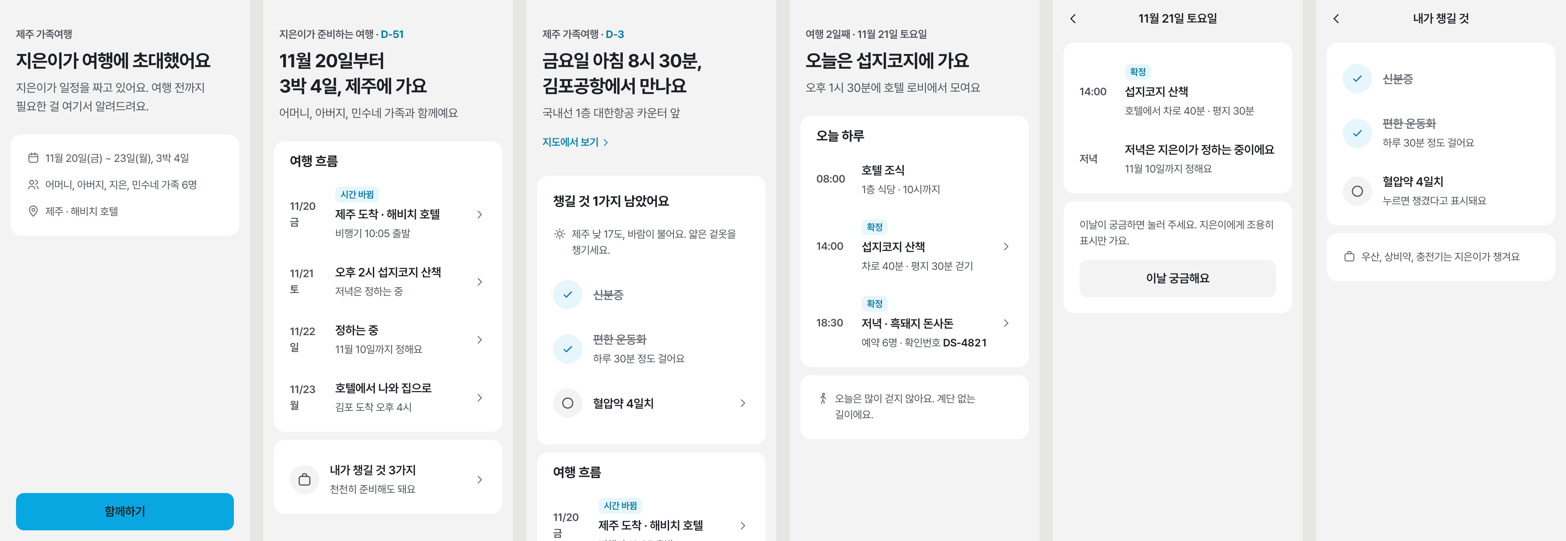
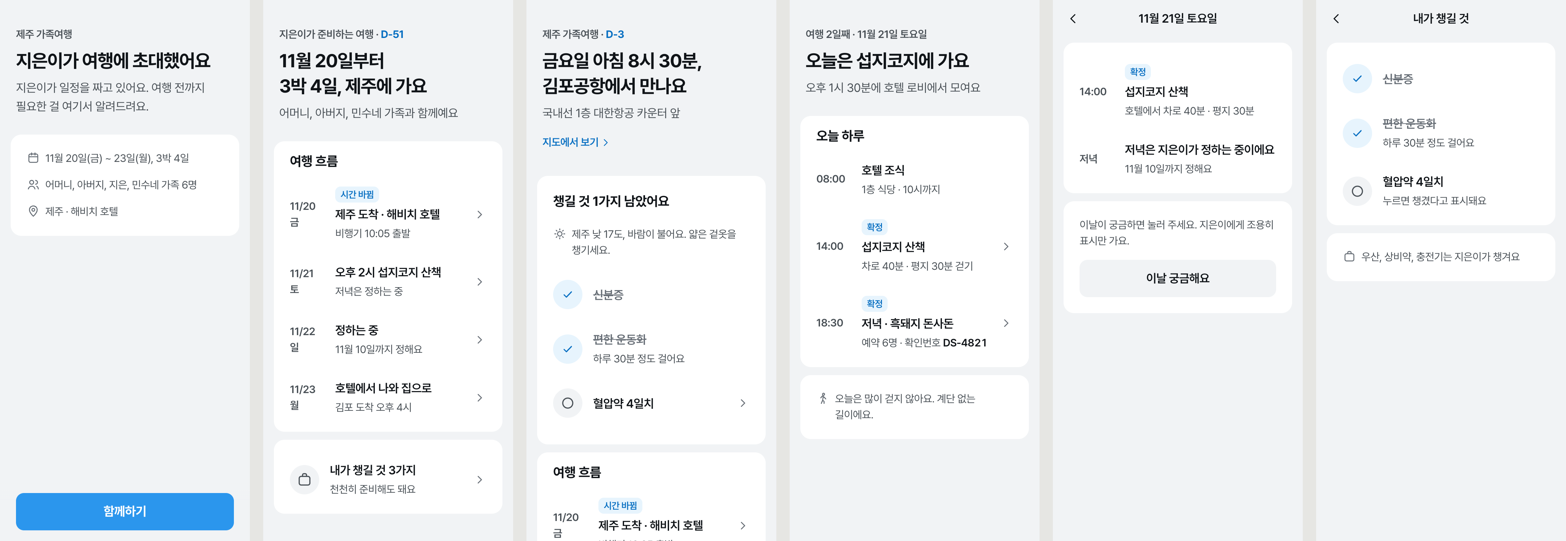
마이리얼트립 컬러 팔레트 도입 + derive.py 팔레트 모드
- myrealtrip.com :root CSS 변수 70개 + 화면 요소 실사용 색을 대조해 palettes/myrealtrip.json으로 저장
  (--primary #51abf3는 미사용, 실제 버튼은 blue-500 #2B96ED / 본문 먹색 #101418 추가)
- derive.py --palette: 새 값을 만들지 않고 팔레트 단계 중 대비 기준을 넘는 가장 밝은 단계를 역할에 배정
- 채워진 버튼은 흰 글자 우선: 4.5 미만이면 19px/700 큰 글씨 기준(3:1), 그래도 미달이면 팔레트 안에서 한 단계 짙게
  (짙은 글자 버튼은 기준은 넘지만 버튼답지 않아 폐기)
- 대비 보고를 실제 값으로(큰 글씨 항목은 3:1 기준 표기), 예제 적용 채점 31/31

Changed region(s): [[0.0, 0.8872, 0.1533, 1.0]]

diff --git a/.claude/skills/oss-design-harness/foundation/examples/tokens.css b/.claude/skills/oss-design-harness/foundation/examples/tokens.css
@@ -1,22 +1,22 @@
-/* foundation tokens — derive.py --brand #08A7E1 --tone neutral --shape normal --density comfy --font pretendard
+/* foundation tokens — derive.py palette myrealtrip --shape normal --density comfy --font pretendard
    이 파일은 생성물이다. 직접 고치지 말고 파라미터를 바꿔 다시 만든다. */
 @import url('https://cdn.jsdelivr.net/gh/orioncactus/pretendard@v1.3.9/dist/web/static/pretendard.min.css');
 
 :root {
-  /* 색 — 포인트 1 + 표면 톤(neutral) */
-  --c-bg: #F3F3F4;
+  /* 색 — palette myrealtrip */
+  --c-bg: #F1F3F5;
   --c-surface: #FFFFFF;
-  --c-line: #E8E9EA;
-  --c-text-1: #1E2025;
-  --c-text-2: #4E525A;
-  --c-text-3: #6A6E76;
-  --c-brand: #08A7E1;
-  --c-on-brand: #1E2025;
-  --c-brand-text: #067FAB;
-  --c-brand-tint: #E6F6FC;
-  --c-brand-tint-text: #0677A1;
-  --c-danger: #E12D33;
-  --c-danger-tint: #FDF0F1;
+  --c-line: #E9ECEF;
+  --c-text-1: #101418;
+  --c-text-2: #495056;
+  --c-text-3: #666D75;
+  --c-brand: #2B96ED;
+  --c-on-brand: #FFFFFF;
+  --c-brand-text: #0A70C2;
+  --c-brand-tint: #E7F4FD;
+  --c-brand-tint-text: #0A70C2;
+  --c-danger: #C83323;
+  --c-danger-tint: #FBF1EF;
 
   /* 타이포 — pretendard */
   --font: 'Pretendard', -apple-system, BlinkMacSystemFont, sans-serif;
@@ -56,3 +56,6 @@
   --fs-sub: 16px; --fw-sub: 400; --lh-sub: 1.5;
   --fs-caption: 14px; --fw-caption: 500; --lh-caption: 1.4;
 }
+
+/* 버튼: 흰 글자 대비가 4.5 미만 → 큰 굵은 글자(19px/700)로 WCAG 큰 글씨 기준(3:1) 충족 */
+.btn.primary { font-size: 19px; font-weight: 700; }

diff --git a/.claude/skills/oss-design-harness/foundation/derive.py b/.claude/skills/oss-design-harness/foundation/derive.py
@@ -42,7 +42,38 @@ FONTS = {
     }
 }
 
-def derive(brand_hex, tone, shape, density, font):
+def from_palette(path):
+    """실제 서비스 팔레트(palettes/*.json)에서 역할 색을 고른다. 새 값을 만들지 않고 팔레트 단계 중
+    대비 기준을 통과하는 가장 밝은 단계를 쓴다. 반환: (색 dict, 버튼 큰 글자 필요 여부, 노트)"""
+    import json
+    P = json.loads(pathlib.Path(path).read_text(encoding="utf-8"))
+    S = {k: {st: hex2rgb(h) for st, h in sc.items()} for k, sc in P["scales"].items()}
+    order = lambda sc: sorted(sc, key=lambda st: int(st))            # 밝음 → 짙음
+    def first_pass(scale, bg, target):
+        for st in order(S[scale]):
+            if contrast(S[scale][st], bg) >= target: return S[scale][st]
+        return S[scale][order(S[scale])[-1]]
+    white = hex2rgb(P["white"]); bg = S["gray"][P["bg_step"]]; line = S["gray"][P["line_step"]]
+    brand = S[P["brand"]][P["brand_step"]]
+    tint = S[P["brand"]]["80"] if "80" in S[P["brand"]] else mix(white, brand, .1)
+    c = {"bg": bg, "surface": white, "line": line, "text1": hex2rgb(P["ink"]),
+         "text2": first_pass("gray", bg, 7), "text3": first_pass("gray", bg, 4.5),
+         "brand": brand, "brand_text": first_pass(P["brand"], white, 4.5),
+         "brand_tint": tint, "brand_tint_text": first_pass(P["brand"], tint, 4.5),
+         "danger": first_pass(P["danger"], white, 4.5), "danger_tint": S[P["danger"]]["50"]}
+    notes = list(P.get("notes", []))
+    big = False
+    if contrast(white, brand) >= 4.5: c["on_brand"] = white
+    elif contrast(white, brand) >= 3:                                   # 채워진 버튼은 흰 글자가 자연스럽다 → 큰 굵은 글자로 AA-large
+        c["on_brand"] = white; big = True; notes.append(f"버튼: 흰 글자 대비 {contrast(white, brand):.2f} → 버튼 글자 19px/700(큰 글씨 기준 3:1)")
+    else:
+        c["on_brand"] = white; c["brand"] = first_pass(P["brand"], white, 3); big = True; notes.append("버튼 색을 팔레트 안에서 한 단계 짙게")
+    return c, big, notes, P
+
+def derive(brand_hex, tone, shape, density, font, palette=None):
+    if palette:
+        c, big, notes, P = from_palette(palette)
+        return render_css(c, big, notes, f"palette {P['name']}", shape, density, font)
     th, ts = TONES[tone]
     surface = hls(th, 0.995 if tone != "neutral" else 1.0, ts)
     bg = hls(th, 0.955, ts + 0.04)
@@ -62,20 +93,29 @@ def derive(brand_hex, tone, shape, density, font):
     brand_tint_text = darken_until(brand, brand_tint, 4.5)
     danger = darken_until(hex2rgb("#E5484D"), surface, 4.5)
     danger_tint = mix(surface, hex2rgb("#E5484D"), 0.08)
+    c = {"bg": bg, "surface": surface, "line": line, "text1": text1, "text2": text2, "text3": text3,
+         "brand": brand, "on_brand": on_brand, "brand_text": brand_text, "brand_tint": brand_tint,
+         "brand_tint_text": brand_tint_text, "danger": danger, "danger_tint": danger_tint}
+    return render_css(c, False, notes, f"--brand {brand_hex} --tone {tone}", shape, density, font)
+
+def render_css(c, big, notes, label, shape, density, font):
+    bg, surface, line, text1, text2, text3 = c["bg"], c["surface"], c["line"], c["text1"], c["text2"], c["text3"]
+    brand, on_brand, brand_text, brand_tint, brand_tint_text = c["brand"], c["on_brand"], c["brand_text"], c["brand_tint"], c["brand_tint_text"]
+    danger, danger_tint = c["danger"], c["danger_tint"]
     r = SHAPES[shape]; d = DENSITY[density]; f = FONTS[font]
     checks = {
         "text-1/bg": contrast(text1, bg), "text-2/bg": contrast(text2, bg), "text-3/bg": contrast(text3, bg),
-        "text-3/surface": contrast(text3, surface), "on-brand/brand": contrast(on_brand, brand),
+        "text-3/surface": contrast(text3, surface), ("on-brand/brand(큰 글씨 ≥3)" if big else "on-brand/brand"): contrast(on_brand, brand),
         "brand-text/surface": contrast(brand_text, surface), "tint-text/tint": contrast(brand_tint_text, brand_tint),
         "danger/surface": contrast(danger, surface)}
     def typo(scale):
         return "\n".join(f"  --fs-{k}: {v[0]}px; --fw-{k}: {v[1]}; --lh-{k}: {v[2]};" for k, v in scale.items())
-    css = f"""/* foundation tokens — derive.py --brand {brand_hex} --tone {tone} --shape {shape} --density {density} --font {font}
+    css = f"""/* foundation tokens — derive.py {label} --shape {shape} --density {density} --font {font}
    이 파일은 생성물이다. 직접 고치지 말고 파라미터를 바꿔 다시 만든다. */
 @import url('{f["import"]}');
 
 :root {{
-  /* 색 — 포인트 1 + 표면 톤({tone}) */
+  /* 색 — {label} */
   --c-bg: {rgb2hex(bg)};
   --c-surface: {rgb2hex(surface)};
   --c-line: {rgb2hex(line)};
@@ -119,17 +159,19 @@ def derive(brand_hex, tone, shape, density, font):
 {typo(f["large"])}
 }}
 """
+    if big:
+        css += "\n/* 버튼: 흰 글자 대비가 4.5 미만 → 큰 굵은 글자(19px/700)로 WCAG 큰 글씨 기준(3:1) 충족 */\n.btn.primary { font-size: 19px; font-weight: 700; }\n"
     return css, checks, notes
 
 if __name__ == "__main__":
     ap = argparse.ArgumentParser()
-    ap.add_argument("--brand", required=True); ap.add_argument("--tone", default="neutral", choices=TONES)
+    ap.add_argument("--brand"); ap.add_argument("--palette", help="palettes/*.json — 실제 서비스 팔레트에서 역할 색을 고른다"); ap.add_argument("--tone", default="neutral", choices=TONES)
     ap.add_argument("--shape", default="normal", choices=SHAPES); ap.add_argument("--density", default="comfy", choices=DENSITY)
     ap.add_argument("--font", default="pretendard", choices=FONTS); ap.add_argument("-o", "--out", required=True)
     a = ap.parse_args()
-    css, checks, notes = derive(a.brand, a.tone, a.shape, a.density, a.font)
+    css, checks, notes = derive(a.brand, a.tone, a.shape, a.density, a.font, a.palette)
     pathlib.Path(a.out).parent.mkdir(parents=True, exist_ok=True); pathlib.Path(a.out).write_text(css, encoding="utf-8")
-    bad = {k: v for k, v in checks.items() if v < 4.5}
+    bad = {k: v for k, v in checks.items() if v < (3 if "큰 글씨" in k else 4.5)}
     print(f"wrote {a.out}", *notes, sep="\n")
     print("대비:", ", ".join(f"{k} {v:.1f}" for k, v in checks.items()))
     sys.exit(1 if bad else 0)

diff --git a/docs/scope-family-trip.md b/docs/scope-family-trip.md
@@ -53,7 +53,8 @@
 
 ## 색 (10/1 결정)
 
-- 포인트 색 **`#08A7E1` 밝은 하늘색** — 토스 파랑(`#1B64DA`)은 금융의 신뢰감이 강해 가족여행 안내서와 맞지 않았다. 청록·테라코타·초록을 비교한 뒤, uibowl 여행 앱 레퍼런스(마이리얼트립 검색 결과 화면)에서 추출한 하늘색을 그대로 쓰기로 했다.
-  - 주의: 이 값은 uibowl의 "마이리얼트립" 결과 중 좌석 선택 화면에서 추출한 색이라, 마이리얼트립 공식 브랜드 색과 다를 수 있다.
-- 흰 글자 대비가 부족해(2.7:1) 색을 바꾸지 않고 **버튼 글자를 짙은 색**으로 둔다(5.9:1). 글자로 쓰는 하늘색은 `#067FAB`로 자동 계산.
-- 표면 톤은 중립(흰·연회색).
+- **마이리얼트립 웹의 컬러 팔레트를 통째로 가져왔다** — `foundation/palettes/myrealtrip.json`. myrealtrip.com의 `:root` CSS 변수 70개(gray·blue·green·yellow·red 각 11단계, 그림자 4단계)와 화면 요소의 실사용 색을 대조해 수집.
+- 선언된 `--primary(#51abf3)`는 실제 버튼에 쓰이지 않고, 주요 버튼은 **`--blue-500 #2B96ED`**를 쓴다 → 브랜드 색은 `#2B96ED`. 본문 먹색 `#101418`은 변수에는 없지만 화면에서 가장 많이 쓰여 추가.
+- 역할 색은 팔레트 안의 단계에서만 고른다(대비 기준을 넘는 가장 밝은 단계): 본문 `#101418` · 보조 `gray-700 #495056` · 옅은 글자 `gray-600 #666D75` · 배경 `gray-80 #F1F3F5` · 강조 글자 `blue-700 #0A70C2` · 틴트 `blue-80 #E7F4FD` · 오류 `red-700 #C83323`.
+- 버튼은 원본처럼 **`#2B96ED` + 흰 글자**. 흰 글자 대비가 3.14:1이라 버튼 글자를 19px/700으로 키워 WCAG 큰 글씨 기준(3:1)을 맞췄다. (이전 시도 — 짙은 글자 버튼 — 는 기준은 넘었지만 버튼답지 않아 폐기)
+- 앞서 쓴 `#08A7E1`은 uibowl 검색 결과의 좌석 선택 화면 색이었고 마이리얼트립 브랜드 색이 아니었다.
